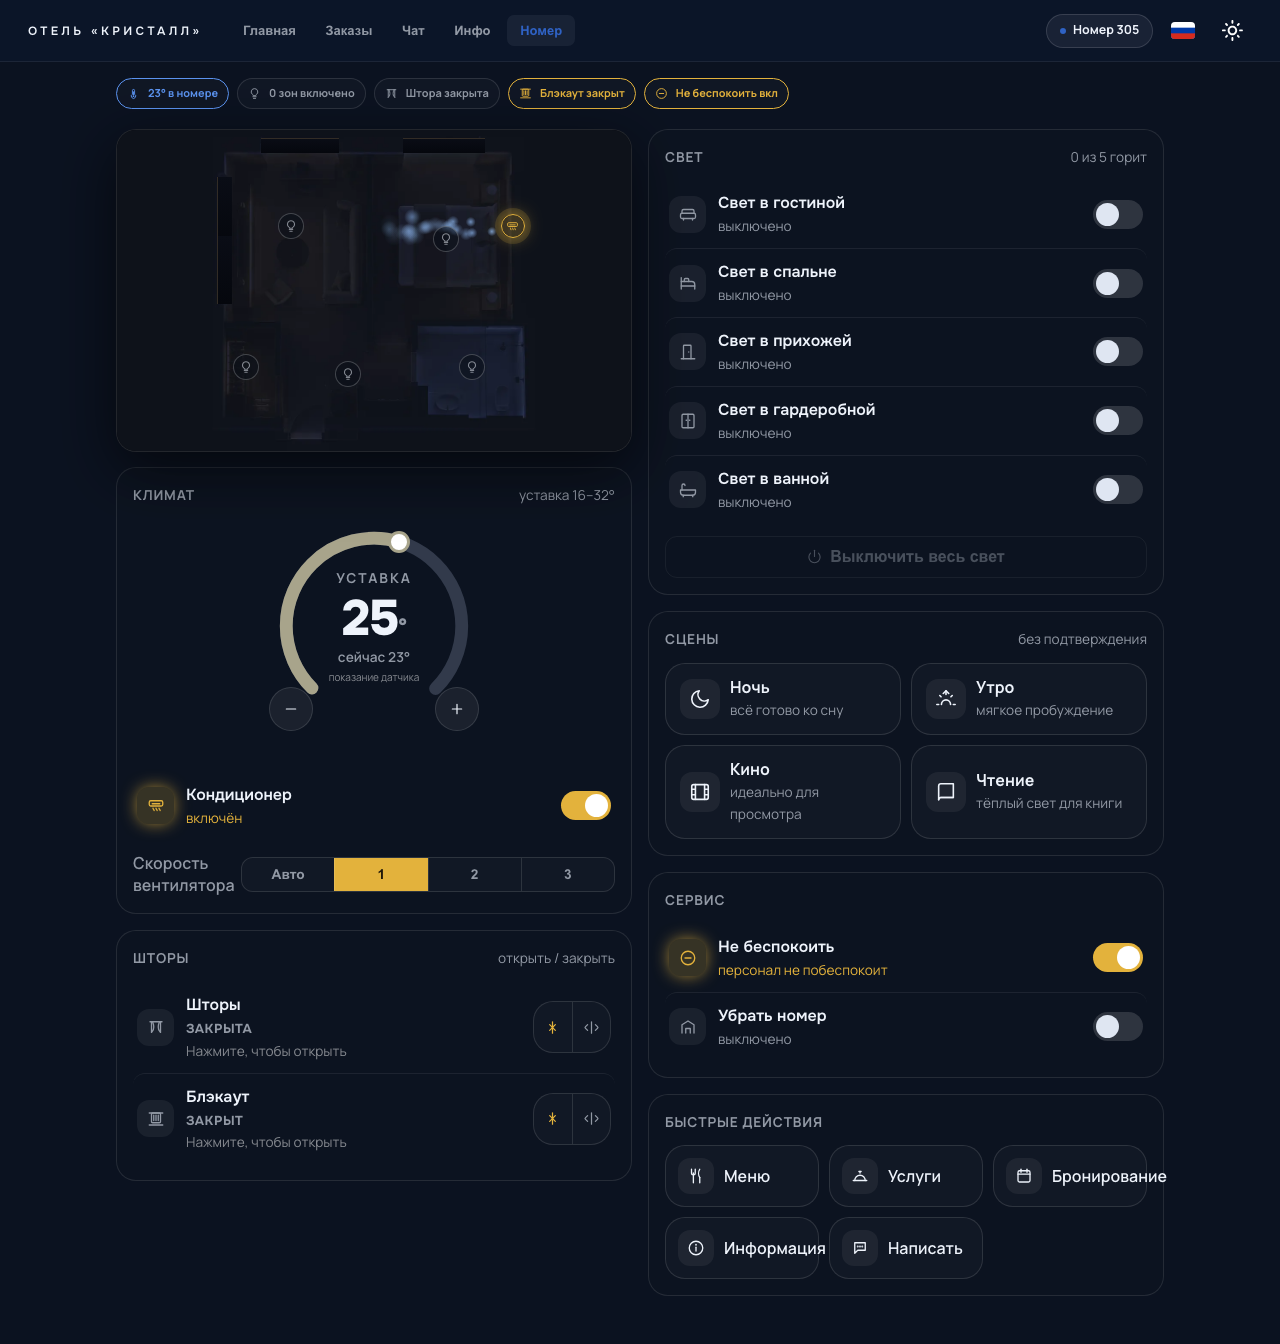
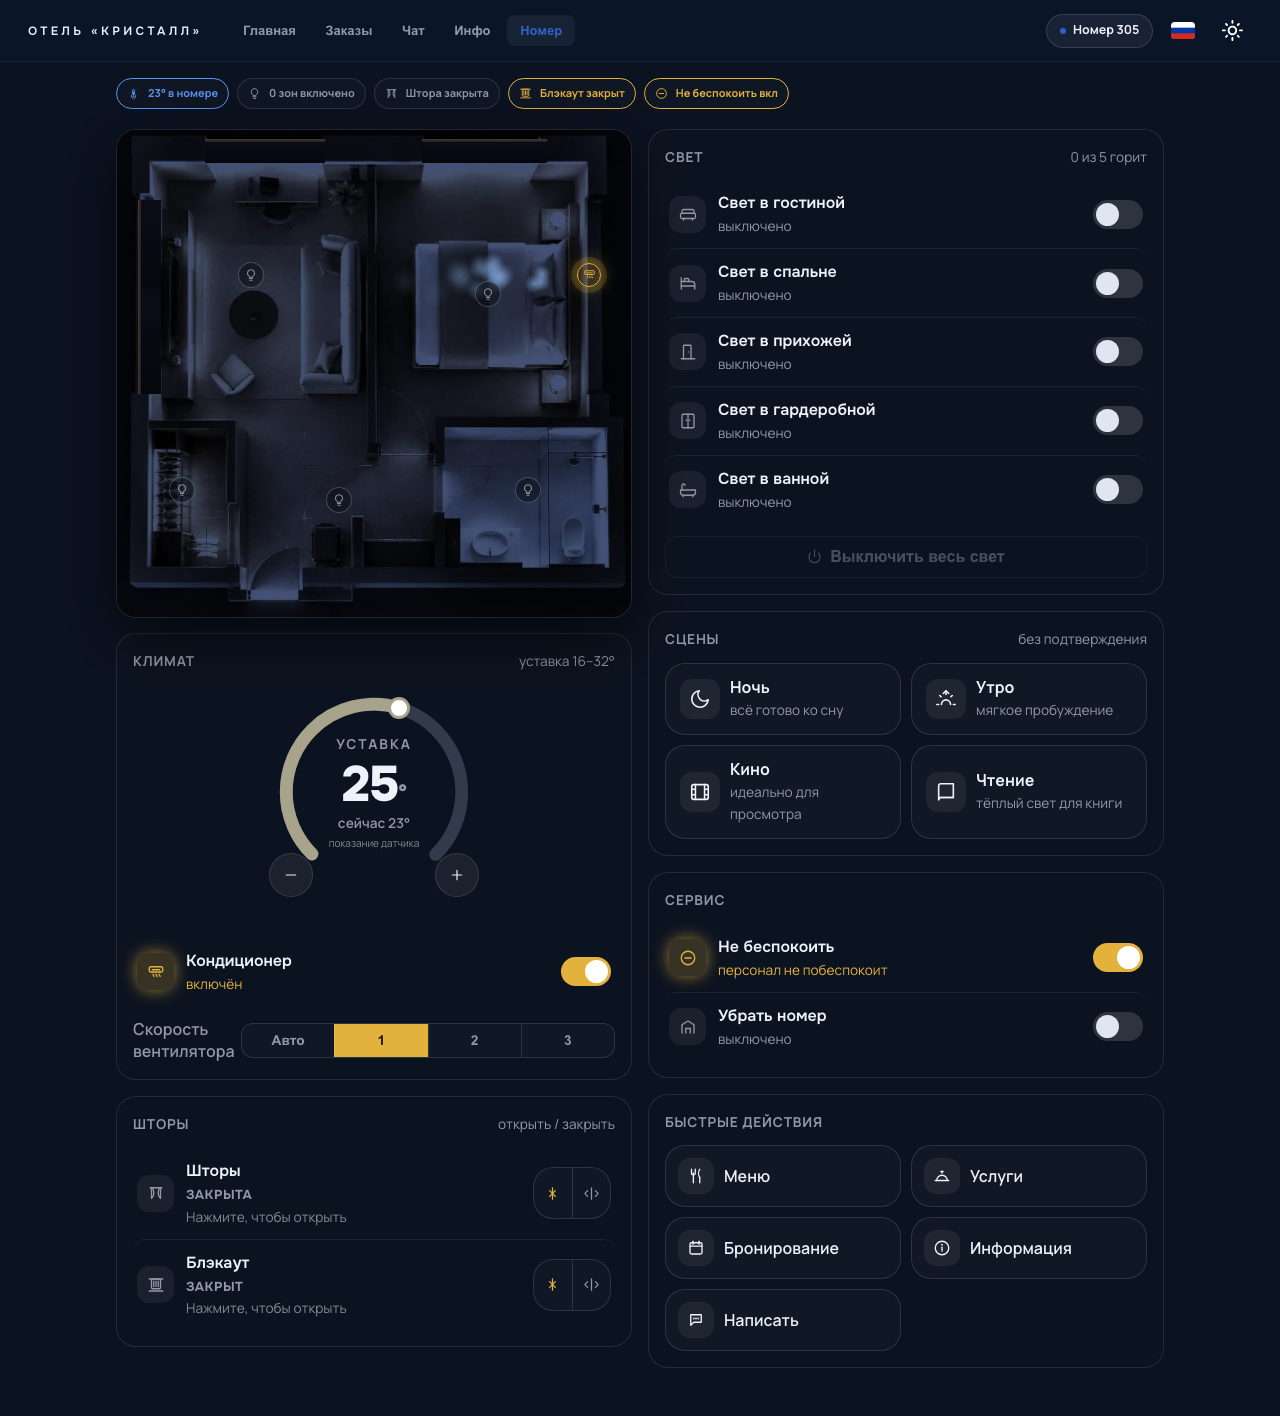
feat(guest): план на кадрированном рендере
У исходного PNG комната занимала около 62% ширины, остальное — дорисованный
тёмный фон. Карточка плиты при этом была ровно по картинке (соотношение
сходилось до третьего знака), и «пустые поля» вокруг плана были не вёрсткой, а
частью кадра: вёрсткой это лечить было нечем.

Сид переключён на render-type1-cropped.png, посчитанный из него ночной кадр и
plan-geometry-cropped.json. Соотношение сторон 1.599 → 1.056. Пропорция
приезжает в payload.plan и берётся оттуда — в компоненте её нет, тип с другим
рендером подключается заменой файлов.

МЕТКИ СВЕТА пришлось восстановить: в новых замерах `lights` пустой, а на них
завязаны и разметка плана, и сторожа. Перенесены ТЕМ ЖЕ преобразованием,
которым пересчитан весь файл: масштаб и сдвиг восстановлены по зонам
(sx=1.5263, sy=1.0073, x0=16.683, y0=0.514) и воспроизводят все уже имеющиеся
там числа — пять зон, три окна и точку фанкойла — с точностью до десятой
процента. Отдельного замера по кадру они не проходили, и это записано в самом
файле замеров.

Проверено на живом стенде: aspect 1.056, пять зон, три окна, шесть точек;
фанкойл у правой стены спальни (91.9, 29.7) с направлением влево.
Мобильная раскладка цела — room-control 28/28.

diff --git a/backend/apps/grms/management/commands/seed_grms_demo.py b/backend/apps/grms/management/commands/seed_grms_demo.py
@@ -178,12 +178,23 @@ ELEMENTS = [
 # идёт через медиапайплайн (MinIO + нарезка вариантов), геометрия — в конфиг
 # типа. docs остаётся источником, а не хранилищем ассетов.
 CONCEPT_DIR = Path(settings.BASE_DIR).parent / "docs" / "design" / "grms-concept"
-GEOMETRY_FILE = CONCEPT_DIR / "plan-geometry.json"
-RENDER_FILE = CONCEPT_DIR / "render-type1.png"
+# КАДРИРОВАННЫЙ рендер, а не исходный.
+#
+# У исходного PNG комната занимала около 62% ширины, остальное — дорисованный
+# тёмный фон. Карточка плиты при этом была ровно по картинке (соотношение
+# сходилось до третьего знака), и «пустые поля» вокруг плана были не вёрсткой,
+# а частью самого кадра: вёрсткой это вылечить было нечем.
+#
+# Поля срезаны, соотношение сторон изменилось с 1.599 на 1.056 — плита стала
+# почти квадратной. Пропорция приезжает в payload.plan и берётся оттуда, в коде
+# её нет: тип номера с другим рендером подключается заменой файлов, а не правкой
+# компонента.
+GEOMETRY_FILE = CONCEPT_DIR / "plan-geometry-cropped.json"
+RENDER_FILE = CONCEPT_DIR / "render-type1-cropped.png"
 # Ночной кадр ПОСЧИТАН из светлого (bake_dark_plate.py), поэтому совмещён с ним
 # по построению. Нарисованный отдельно render-type1-dark.png не годится:
 # габариты комнаты расходятся примерно на 21%, мебель двоится на границе зоны.
-RENDER_OFF_FILE = CONCEPT_DIR / "render-type1-off.png"
+RENDER_OFF_FILE = CONCEPT_DIR / "render-type1-cropped-off.png"
 
 # Код зоны из plan-geometry.json → элемент, которым управляет тап по комнате.
 # Связь ЯВНАЯ, а не «первый светильник в зоне»: догадка на фронте или на
